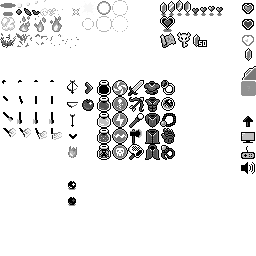
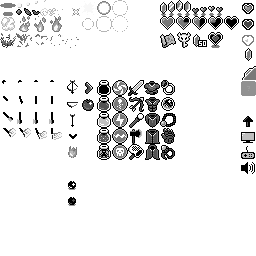
add heart piece sprites to main sheet, repacked sheet updated MenuWidgetLoadout to set the hero's current heart pieces to new empty sprite. playtested, working.

Changed region(s): [[0.625, 0.0625, 0.9375, 0.1875]]

diff --git a/DungeonRun/Classes/MenuWidgetLoadout.cs b/DungeonRun/Classes/MenuWidgetLoadout.cs
@@ -91,6 +91,9 @@ namespace DungeonRun
             MenuItemFunctions.SetMenuItemData(MenuItemType.InventoryGold, menuItems[4]);
             MenuItemFunctions.SetMenuItemData(MenuItemType.InventoryHeartPieces, menuItems[5]);
 
+            //set the inventory heart pieces frame, based on the number of heart pieces hero has
+            menuItems[5].compSprite.currentFrame.x = 14; //empty for now
+
             if (DungeonFunctions.dungeon.map) //if player found the map, display it
             { MenuItemFunctions.SetMenuItemData(MenuItemType.InventoryMap, menuItems[6]); }
             else { MenuItemFunctions.SetMenuItemData(MenuItemType.Unknown, menuItems[6]); }

diff --git a/DungeonRun/Classes/MenuWidgetInventory.cs b/DungeonRun/Classes/MenuWidgetInventory.cs
@@ -126,7 +126,7 @@ namespace DungeonRun
             //set the menuItem's neighbors
             MenuItemFunctions.SetNeighbors(menuItems, 5);
 
-            #region Set the menuItem data (based on the hero's inventory - later)
+            #region Set the menuItem data (based on the hero's inventory)
 
             MenuItemFunctions.SetMenuItemData(MenuItemType.ItemBoomerang, menuItems[0]);
             MenuItemFunctions.SetMenuItemData(MenuItemType.ItemBomb, menuItems[1]);
